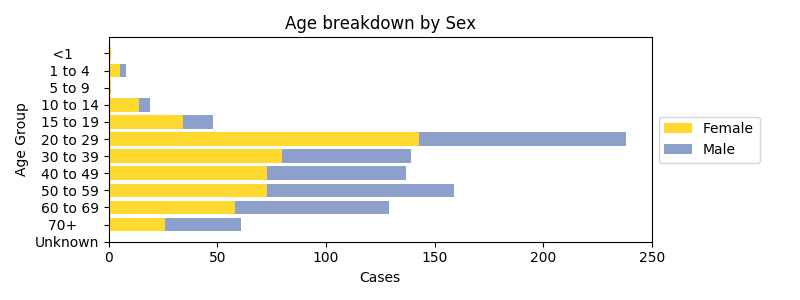
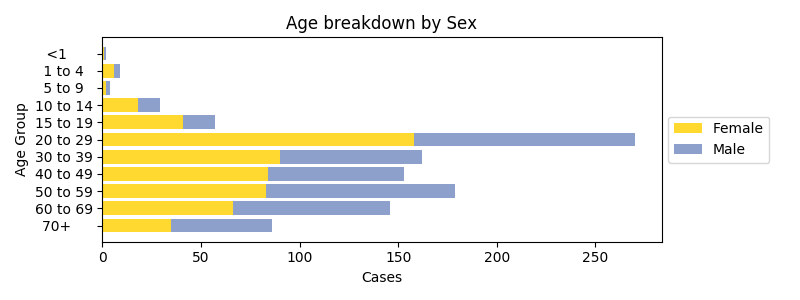
Updated data

diff --git a/NZModel/nz_data.py b/NZModel/nz_data.py
@@ -28,8 +28,9 @@ header=3
 #filename = "covidcase_list_1_apr_2020.xlsx"
 #filename = "./covid-19_case_list_2_april_2020.xlsx"
 #filename = "./covid-19-case-details-update-3-april-2020.xlsx"
-filename = "./covid-19-case-details-update-4-april-2020.xlsx"
+#filename = "./covid-19-case-details-update-4-april-2020.xlsx"
 #filename = "./covid-casedetialsupdate-5april.xlsx"
+filename = "./covid-casedetails-update-6april.xlsx"
 
 # Confirmed Infection Cases
 data_conf = pd.read_excel(filename, header=header)
